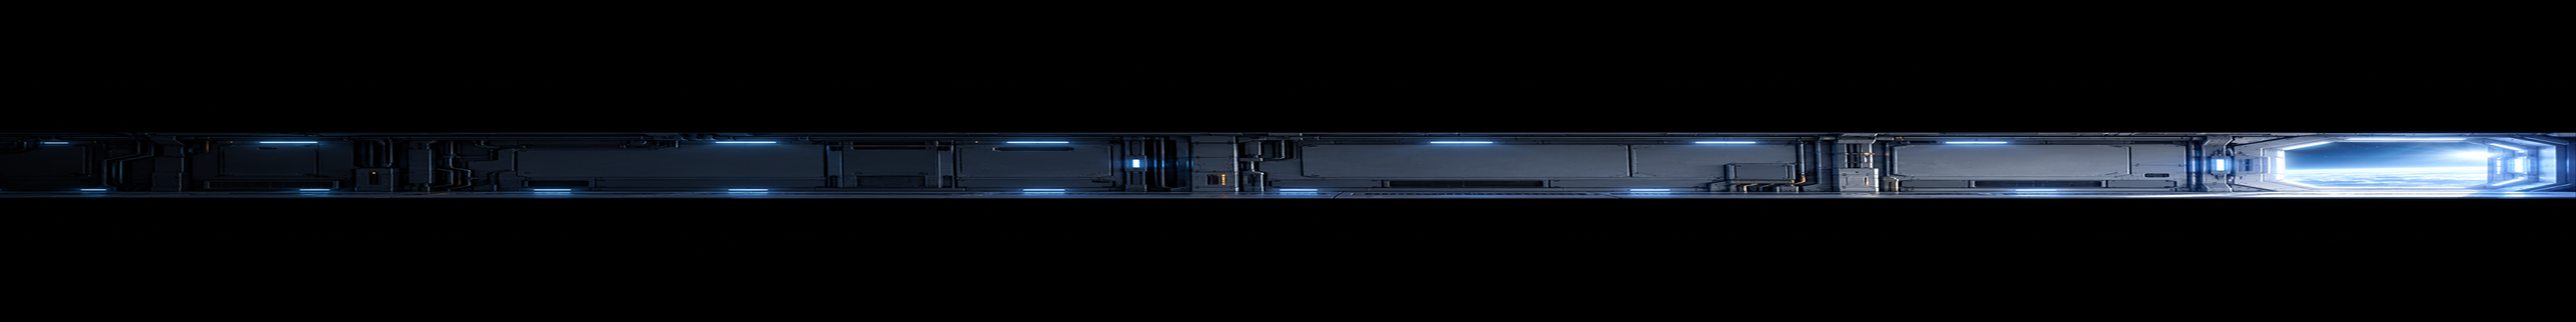
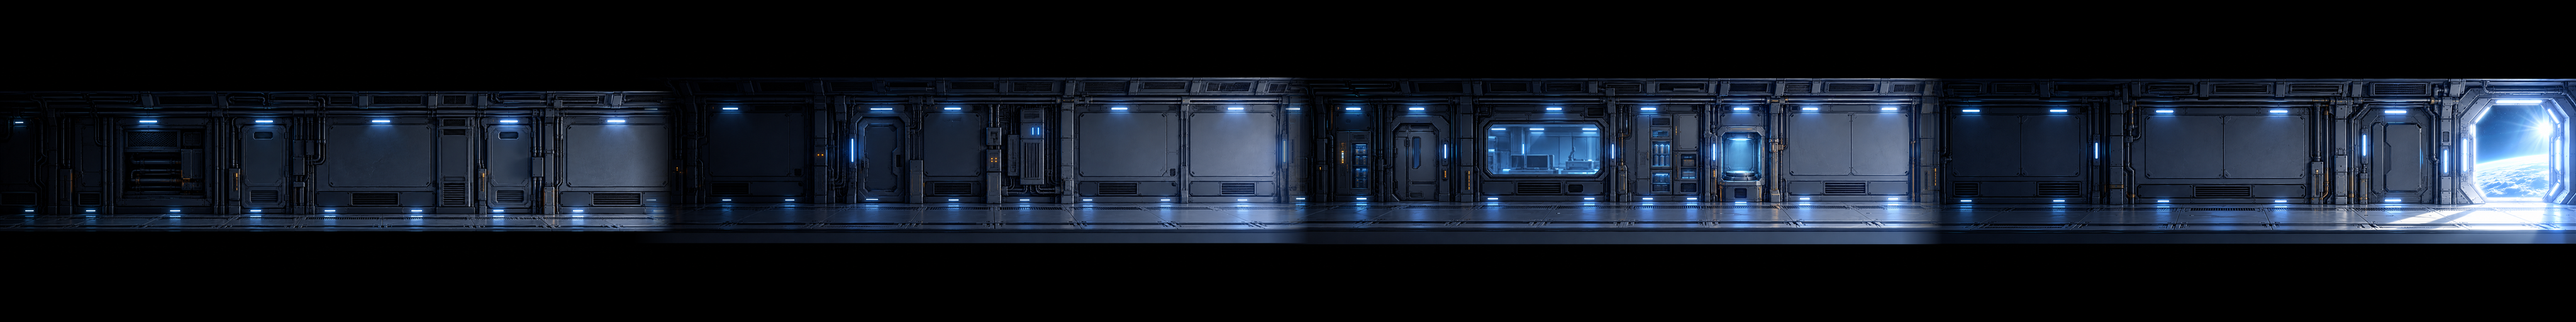
fix: rebuild Genesis corridor with natural proportions

diff --git a/apps/zep-studio/genesis-assets.js b/apps/zep-studio/genesis-assets.js
@@ -5,7 +5,7 @@ window.GENESIS_ASSETS = [
     category: 'opening',
     categoryLabel: '오프닝 배경',
     title: '빛을 향한 복도 · ZEP 스케일',
-    subtitle: '문 높이를 ZEP 캐릭터 2~3명 정도로 줄인 2D 측면 복도',
+    subtitle: '자연스러운 비율의 네 구역을 이어 만든 ZEP용 2D 측면 복도',
     thumbnail: 'assets/genesis/thumbs/genesis-opening-corridor-zep-scale.jpg',
     background: 'assets/genesis/genesis-opening-corridor-zep-scale.png',
     archiveBackground: 'assets/genesis/genesis-opening-corridor.png',
@@ -13,8 +13,8 @@ window.GENESIS_ASSETS = [
     size: '4096 × 512',
     layers: '아랫배경 1장',
     tags: ['2D 측면', 'ZEP 스케일', '스토리 워크', '에어록'],
-    description: '작은 ZEP 캐릭터가 거대한 격납고 안에 있는 것처럼 보이지 않도록 문과 복도 높이를 캐릭터 2~3명 정도로 줄인 오프닝 배경입니다. 위아래 검정 여백으로 통로에 시선이 모이며 기존 4096 × 1024 원본도 보관되어 있습니다.',
-    prompt: '우주선 내부의 길고 어두운 2D 측면 복도. 작은 ZEP 캐릭터 기준으로 문과 벽 높이는 캐릭터 2~3명 정도이며, 천장과 바닥은 얕은 통로처럼 보인다. 위아래에는 넉넉한 검정 여백이 있다. 좌측은 어둡고 우측으로 갈수록 밝아지며 마지막은 열린 에어록이다. 텍스트·인물·UI 없음.'
+    description: '정비·배관, 통신·전력, 연구·관측, 에어록 접근 구역을 각각 자연스러운 건축 비율로 제작해 이어 붙인 오프닝 배경입니다. 문은 ZEP 캐릭터 2~3명 정도 높이이며, 왼쪽에서 오른쪽으로 갈수록 밝아집니다. 기존 4096 × 1024 원본도 보관되어 있습니다.',
+    prompt: '우주선 내부의 길고 어두운 2D 측면 복도. 정비·배관 구역, 통신·전력 구역, 연구·관측 구역, 밝은 에어록 접근 구역을 실제 새로운 공간으로 길게 이어 붙인다. 작은 ZEP 캐릭터 기준으로 문과 벽 높이는 캐릭터 2~3명 정도이며 건축물의 가로세로 비율을 찌그러뜨리지 않는다. 위아래에는 검정 여백이 있고 좌측에서 우측으로 갈수록 밝아진다. 텍스트·인물·UI 없음.'
   },
   {
     id: 'GEN-MAP-001', slug: 'space-corridor', category: 'map', categoryLabel: '맵 세트',

diff --git a/apps/zep-studio/assets/genesis/README.md b/apps/zep-studio/assets/genesis/README.md
@@ -4,7 +4,7 @@
 
 ## 현재 구성
 
-- `genesis-opening-corridor-zep-scale.png`: 문 높이를 ZEP 캐릭터 2~3명 정도로 맞춘 기본 오프닝 복도, 4096×512
+- `genesis-opening-corridor-zep-scale.png`: 정비·통신·연구·에어록의 네 구역을 자연스러운 비율로 연결한 기본 오프닝 복도, 4096×512
 - `genesis-opening-corridor.png`: 처음 제작한 넓은 복도 원본, 4096×1024
 - `thumbs/`: 프로젝트 보드에서 사용하는 가벼운 미리보기 이미지
 - 기존 6종 맵 세트의 원본은 `../space-backgrounds/`에 있으며, 각 세트는 앞배경과 윗배경으로 분리되어 있습니다.
